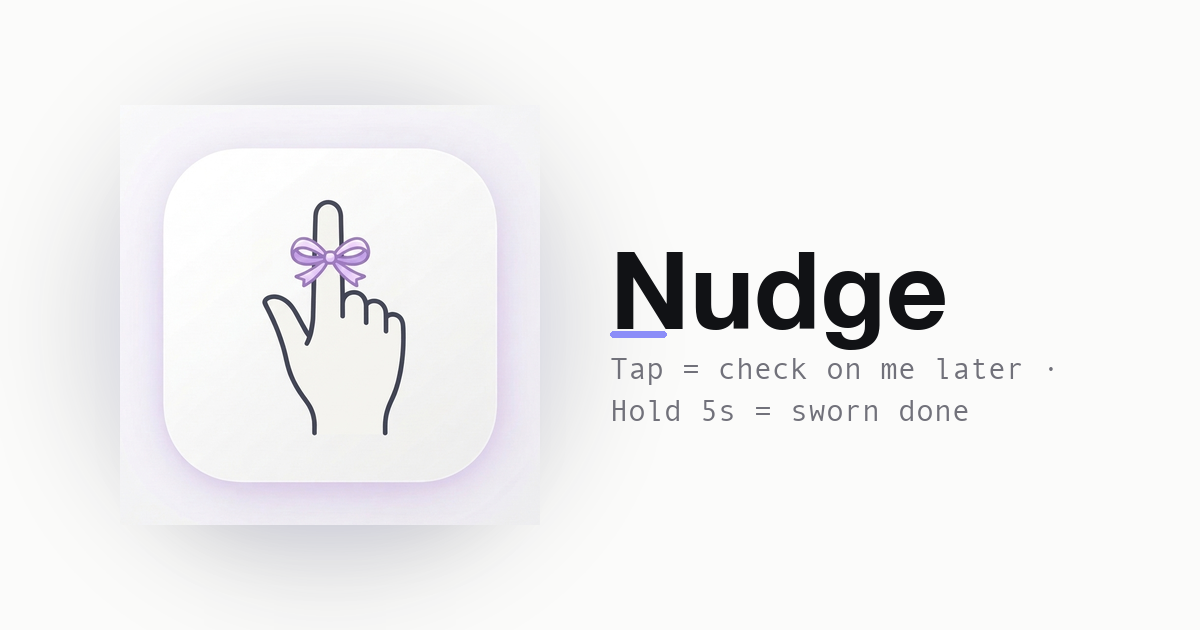
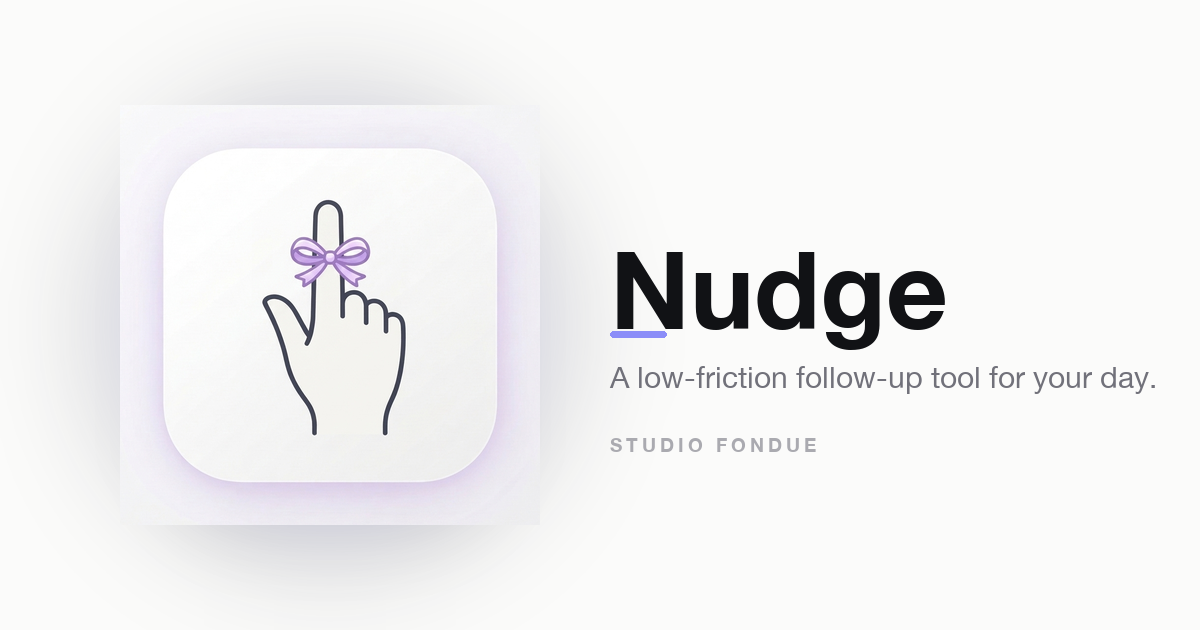
style: restore clean professional subtitle on social share card

Changed region(s): [[0.4933, 0.573, 0.9558, 0.6635], [0.4933, 0.6937, 0.6783, 0.7238]]

diff --git a/index.html b/index.html
@@ -8,11 +8,11 @@
   <meta name="apple-mobile-web-app-status-bar-style" content="default" />
   <meta name="apple-mobile-web-app-title" content="Nudge" />
   <meta property="og:title" content="Nudge" />
-  <meta property="og:description" content="Tap = check on me later · Hold 5s = sworn done" />
-  <meta property="og:image" content="https://nudge-lime-zeta.vercel.app/og-image.png" />
+  <meta property="og:description" content="A low-friction follow-up tool for your day." />
+  <meta property="og:image" content="https://nudge-lime-zeta.vercel.app/og-image.png?v=1790953001" />
   <meta property="og:type" content="website" />
   <meta name="twitter:card" content="summary_large_image" />
-  <meta name="twitter:image" content="https://nudge-lime-zeta.vercel.app/og-image.png" />
+  <meta name="twitter:image" content="https://nudge-lime-zeta.vercel.app/og-image.png?v=1790953001" />
   <link rel="icon" type="image/svg+xml" href="/favicon.svg" />
   <link rel="icon" type="image/png" href="/favicon.png" />
   <link rel="apple-touch-icon" href="/apple-touch-icon.png" />
